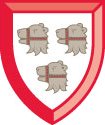
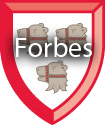
updated images

Changed region(s): [[0.0571, 0.24, 0.9429, 0.528]]

diff --git a/templates/baseMobile.html b/templates/baseMobile.html
@@ -2,12 +2,38 @@
 <html>
 	<head>
     	<title>Princeton Eats</title>
+      <link type="text/css" rel="stylesheet" href="/css/main.css" />
     	<link type="text/css" rel="stylesheet" href="/css/mobile.css" />
   		<script src="/js/jquery.js"></script>
     	<script src="/js/mobile.js"></script>
   	</head>
   	<body>
-      <header>Mobile Site</header>
+      <header> 
+        <div id="header-container">
+          <div id="logo-container">
+              <a href="/">
+                <img src="/images/mobilelogo.png" alt="princeton eats logo" />
+              </a>
+          </div>
+          <div id="date-selector-container">
+            <form method="get">
+              <select>
+                <option value="today">Today</option>
+                <option value="today">Tomorrow</option>
+                <option value="today">The day after</option>
+                <option value="today">The day after that</option>
+            </form>
+          </div>
+          <div id="search-container">
+              <form id="search">
+                <input type="text" name="search" placeholder="Search">
+              </form>
+          </div>
+          <div id="filters-button-container">
+            <button id="filters-button" type="button">Filters</button>
+          </div>
+        </div>
+      </header>
       <section>{% block content %}{% endblock %}</section>
   		<footer></footer>
   	</body>

diff --git a/templates/pieces/menus.html b/templates/pieces/menus.html
@@ -1,36 +1,16 @@
-<!--
-{% for menu in menus %}
-	<div id="{{ menu }}-container" class="menu-container">
-		<div class="dining-hall-container">
-			<div class="logo-container">
-				<img src="/images/{{ menu }}.png" />
-			</div>
-			<div class="menu-items-container">
-				<ul class="menu-items">
-					{% for meal in menus[menu] %}
-						<li class="item">
-							{{ meal }}
-						</li>
-					{% endfor %}
-				</ul>				
-			</div>
-		</div>
-	</div>
-{% endfor %}
--->
 <table id="menus-table">
 	<tr id="logos">
 		<td id="forbes-logo-container">
-			<img src="images/Forbes.png" />
+			<img src="images/forbes.png" />
 		</td>
 		<td id="whitman-logo-container">
-			<img src="images/Whitman.png" />
+			<img src="images/whitman.png" />
 		</td>
 		<td id="butlerwilson-logo-container">
-			<img src="images/Butler.png" />
+			<img src="images/butlerwilson.png" />
 		</td>
 		<td id="rockymathey-logo-container">
-			<img src="images/Mathey.png" />
+			<img src="images/rockymathey.png" />
 		</td>
 	</tr>
 	<tr id="meal">

diff --git a/css/mobile.css b/css/mobile.css
@@ -1,0 +1,18 @@
+/* mobile.css */
+
+header #header-container {
+	width: 100%;
+}
+
+header #logo-container {
+	width: auto;
+	margin: 0;
+}
+
+#logo-container img {
+	height: 60px;
+}
+
+header #date-selector-container {
+	width: auto;
+}

diff --git a/main.py b/main.py
@@ -54,6 +54,7 @@ class Hall(webapp2.RequestHandler):
 class Home(webapp2.RequestHandler):
     def get(self):
         if (isMobile(self.request)):
+        #if (True):
             template = jinja.get_template('templates/homeMobile.html')
             self.response.out.write(template.render({})) 
             return
